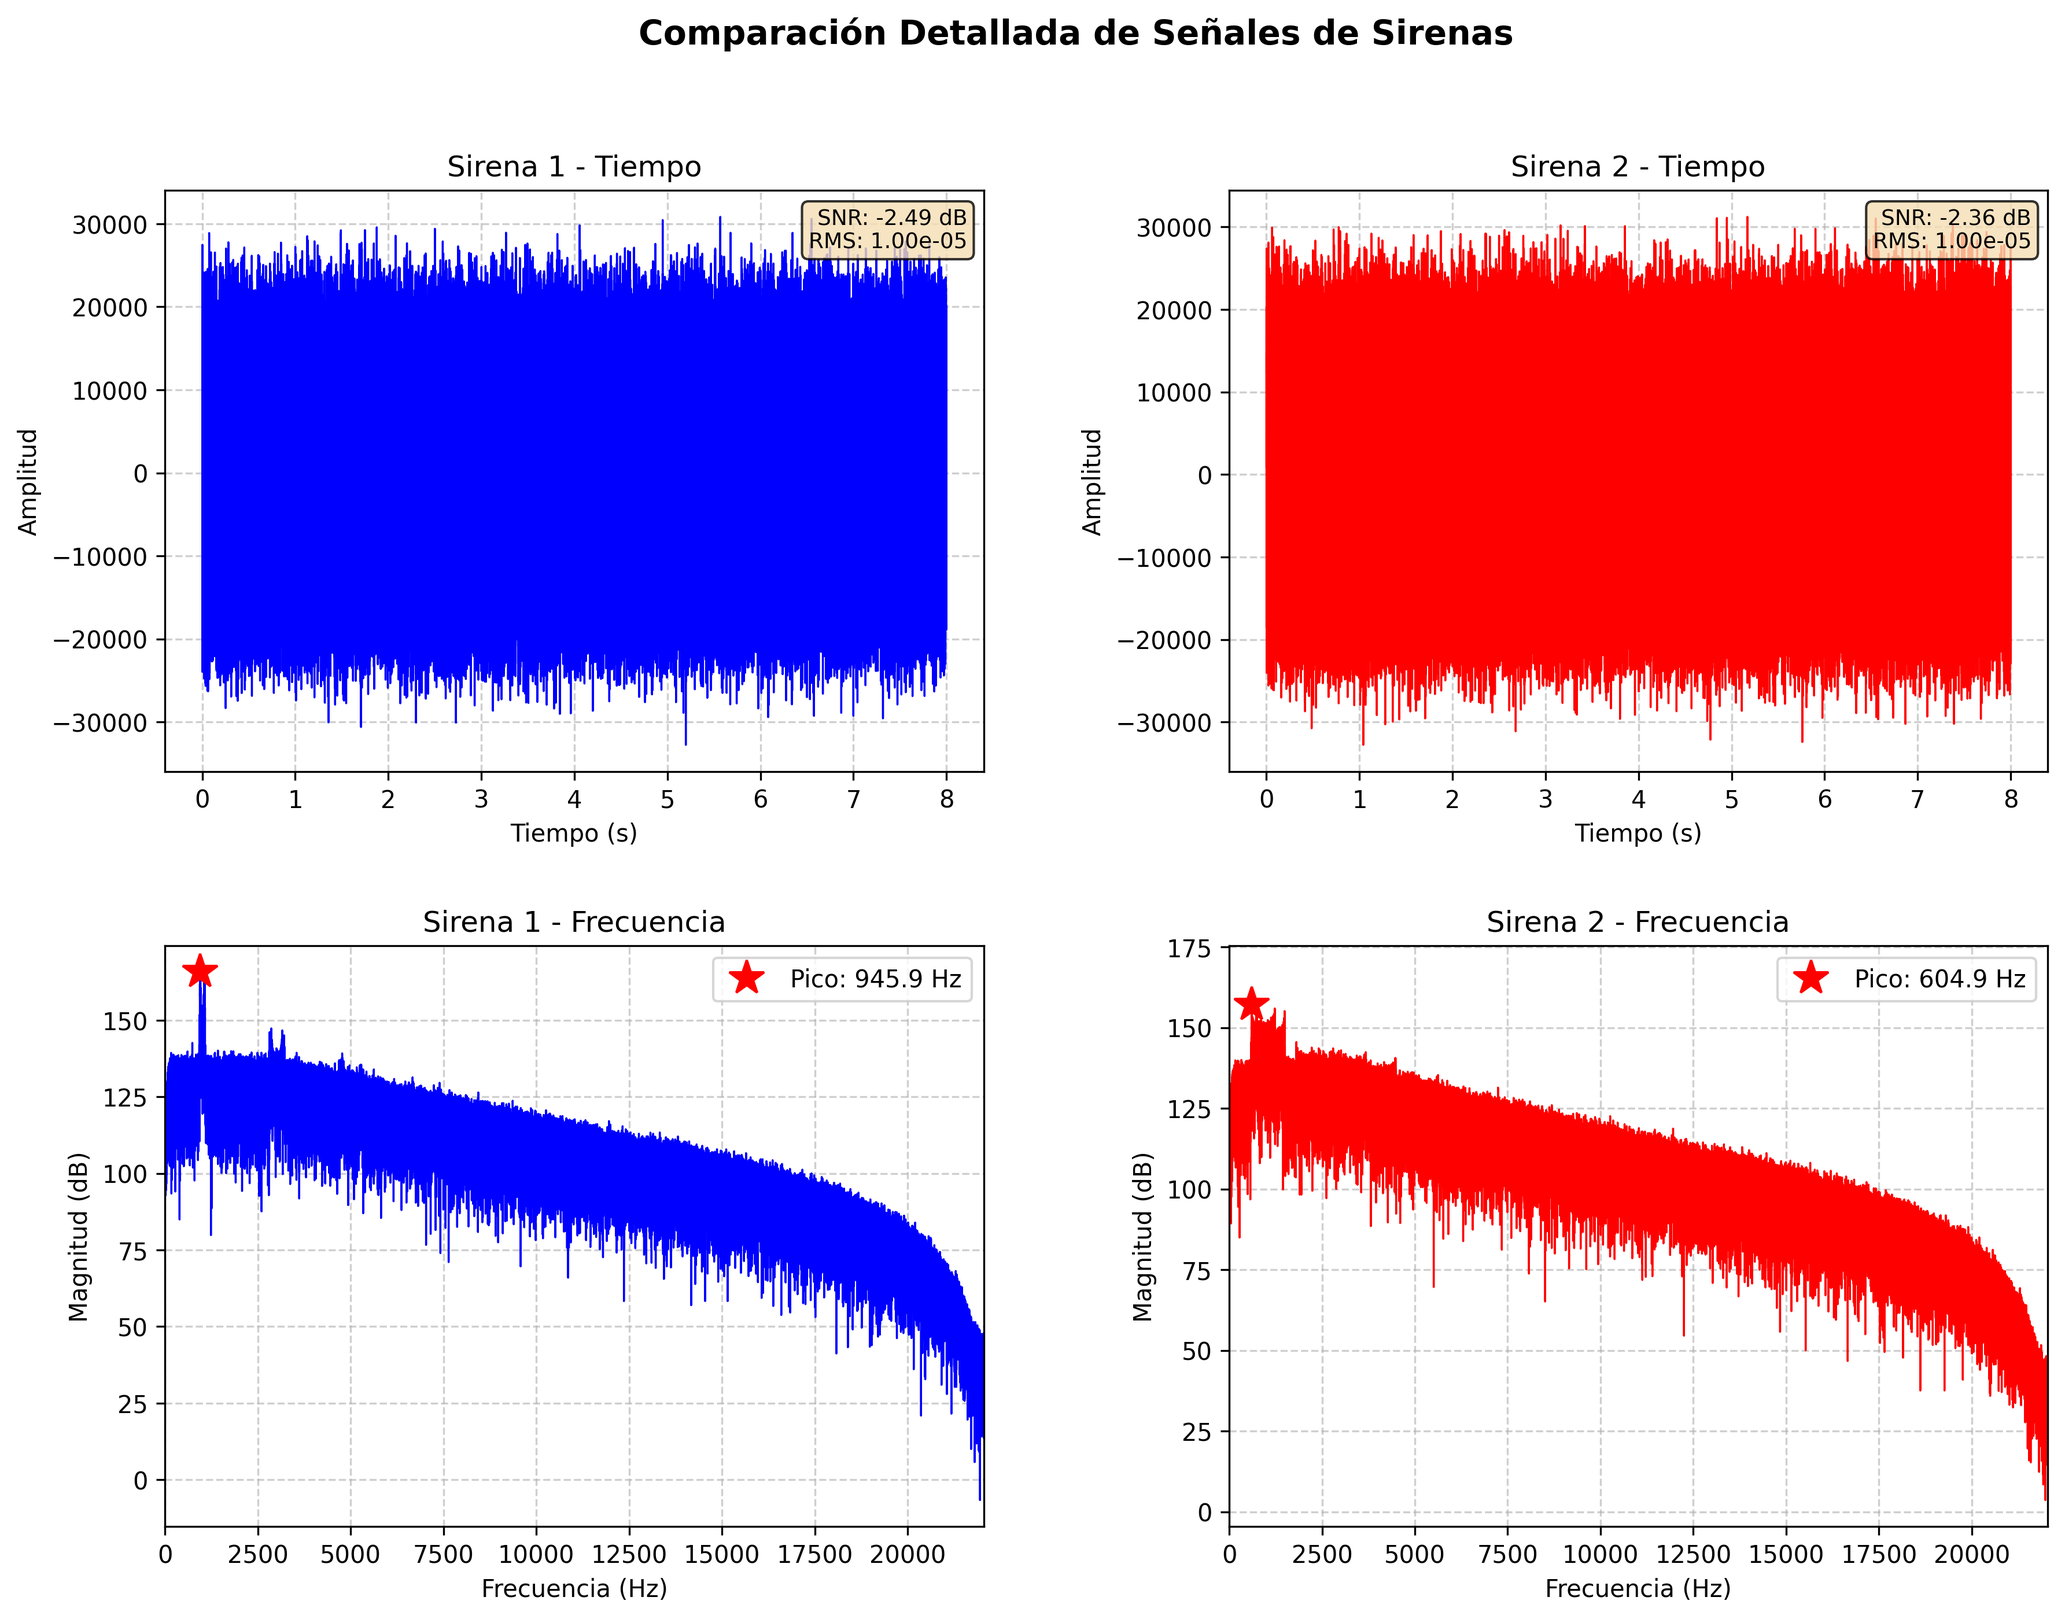
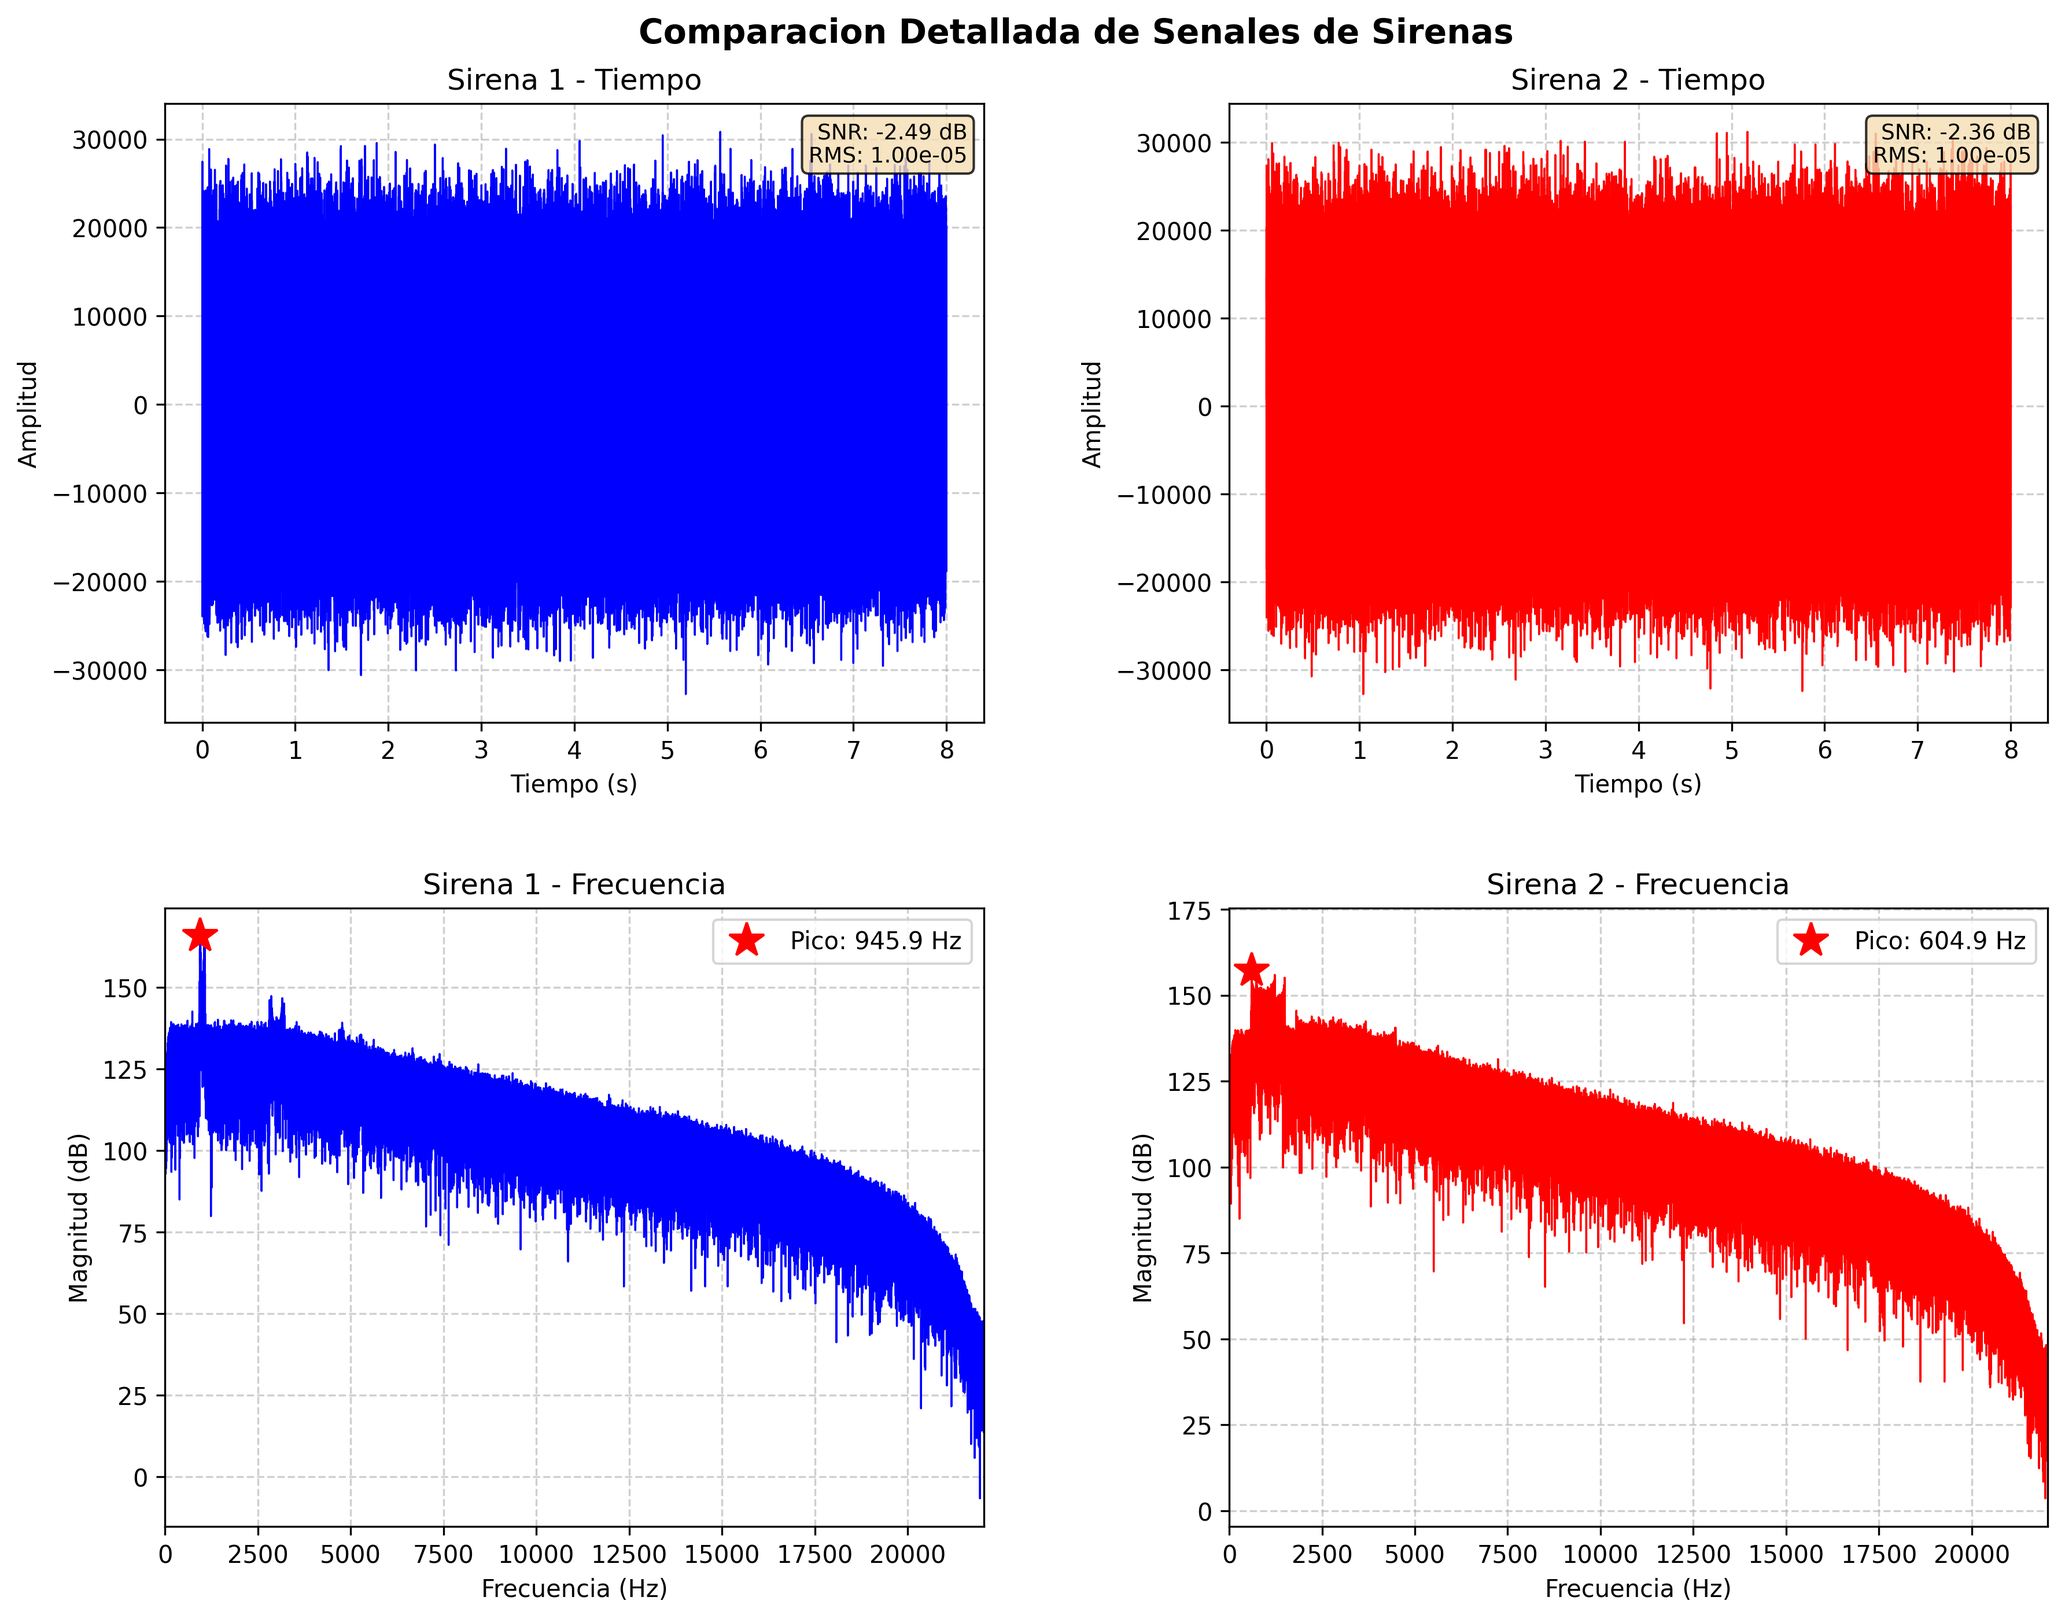
Rename SNR module and normalize text
Rename src/analisis_snr_v2.py to src/analisis_snr.py and update main.py import. Normalize Spanish wording (remove accents and standardize comments/prints) across main.py, src/analisis_snr.py, src/cargar_sirenas.py and src/graficador.py. Adjust graficador behavior: change default titles, use subplots_adjust instead of tight_layout, tweak metric text formatting and save log messages. Suppress a verbose load print in cargar_sirenas. Updated binary outputs: Entregable.docx and graficos-creados/Comparacion_Sirena1_vs_Sirena2.png.

diff --git a/main.py b/main.py
@@ -1,10 +1,10 @@
 from src.cargar_sirenas import cargar_sirenas
 from src.graficador import graficar_comparacion_seniales
-from src.analisis_snr_v2 import imprimir_analisis_completo
+from src.analisis_snr import imprimir_analisis_completo
 import os
 
 def main():
-    # Crear la carpeta de gráficos si no existe
+    # Crear la carpeta de graficos si no existe
     carpeta_graficos = os.path.join(os.path.dirname(__file__), "graficos-creados")
     if not os.path.exists(carpeta_graficos):
         os.makedirs(carpeta_graficos)
@@ -21,30 +21,30 @@ def main():
     fs1, data1 = sirenas['sirena1']['fs'], sirenas['sirena1']['data']
     fs2, data2 = sirenas['sirena2']['fs'], sirenas['sirena2']['data']
 
-    # Mostrar información básica
-    print("\n--- Información de las señales ---")
-    print(f"Sirena 1: fs = {fs1} Hz, duración = {len(data1)/fs1:.2f} s")
-    print(f"Sirena 2: fs = {fs2} Hz, duración = {len(data2)/fs2:.2f} s")
+    # Mostrar informacion basica
+    print("\n--- Informacion de las senales ---")
+    print(f"Sirena 1: fs = {fs1} Hz, duracion = {len(data1)/fs1:.2f} s")
+    print(f"Sirena 2: fs = {fs2} Hz, duracion = {len(data2)/fs2:.2f} s")
 
     # ============================================================
-    # ANÁLISIS SNR
+    # ANALISIS SNR
     # ============================================================
     print("\n" + "="*70)
-    print("ANÁLISIS DE RELACIÓN SEÑAL-RUIDO (SNR)")
+    print("ANALISIS DE RELACION SENAL-RUIDO (SNR)")
     print("="*70)
     
-    # Análisis detallado de cada señal
+    # Analisis detallado de cada senal
     resultado_1 = imprimir_analisis_completo("Sirena 1", data1, fs1)
     resultado_2 = imprimir_analisis_completo("Sirena 2", data2, fs2)
     
-    # Comparación SNR
+    # Comparacion SNR
     print("\n" + "="*70)
-    print("COMPARACIÓN Y CONCLUSIONES")
+    print("COMPARACION Y CONCLUSIONES")
     print("="*70)
     snr1 = resultado_1['snr_db']
     snr2 = resultado_2['snr_db']
     
-    print(f"\nComparación SNR:")
+    print(f"\nComparacion SNR:")
     print(f"  Sirena 1: {snr1:.2f} dB")
     print(f"  Sirena 2: {snr2:.2f} dB")
     print(f"  Diferencia: {abs(snr1 - snr2):.2f} dB")
@@ -57,33 +57,33 @@ def main():
         valor_mejor = snr2
     
     print(f"\n  --> {mejor} tiene mejor SNR ({valor_mejor:.2f} dB)")
-    print(f"      Una mayor SNR significa una señal más clara con menos ruido.")
+    print(f"      Una mayor SNR significa una senal mas clara con menos ruido.")
     
-    # Recomendación de filtro
-    print(f"\nAnálisis de Frecuencias Dominantes:")
+    # Recomendacion de filtro
+    print(f"\nAnalisis de Frecuencias Dominantes:")
     freq_pico1 = resultado_1['freq_pico']
     freq_pico2 = resultado_2['freq_pico']
     print(f"  Sirena 1: Pico en {freq_pico1:.1f} Hz")
     print(f"  Sirena 2: Pico en {freq_pico2:.1f} Hz")
     
-    # Análisis de si se necesita filtro
+    # Analisis de si se necesita filtro
     snr_threshold = 15  # dB
-    print(f"\nRecomendación de Filtrado:")
+    print(f"\nRecomendacion de Filtrado:")
     if snr1 < snr_threshold or snr2 < snr_threshold:
         print(f"  [!] SNR < {snr_threshold} dB -> FILTRADO RECOMENDADO")
         print(f"      - Tipo sugerido: Filtro paso-banda alrededor de la frecuencia dominante")
         print(f"      - Alternativa: Filtro paso-bajo para eliminar ruido de alta frecuencia")
     else:
-        print(f"  [OK] SNR > {snr_threshold} dB -> Señal relativamente limpia")
-        print(f"       Filtrado es OPCIONAL; puede proceder directamente a análisis de frecuencia")
+        print(f"  [OK] SNR > {snr_threshold} dB -> Senal relativamente limpia")
+        print(f"       Filtrado es OPCIONAL; puede proceder directamente a analisis de frecuencia")
     
     print("\n" + "="*70 + "\n")
     
     # ============================================================
-    # GRÁFICOS - COMPARACIÓN DE PRUEBAS
+    # GRAFICOS - COMPARACION DE PRUEBAS
     # ============================================================
     
-    # Definir ruta de salida para el gráfico de comparación
+    # Definir ruta de salida para el grafico de comparacion
     archivo_comparacion = os.path.join(carpeta_graficos, "Comparacion_Sirena1_vs_Sirena2.png")
     
     graficar_comparacion_seniales(fs1, data1, fs2, data2,
@@ -93,7 +93,7 @@ def main():
                                   metricas2=resultado_2,
                                   archivo_salida=archivo_comparacion)
     
-    print(f"\n✓ Los gráficos han sido guardados en la carpeta '{carpeta_graficos}'")
+    print(f"\n[OK] Los graficos han sido guardados en la carpeta '{carpeta_graficos}'")
     print(f"  - {archivo_comparacion}")
 
 

diff --git a/src/graficador.py b/src/graficador.py
@@ -3,16 +3,16 @@ import numpy as np
 from scipy import signal
 import os
 
-def graficar_tiempo_frecuencia(fs, data, titulo="Análisis Tiempo-Frecuencia", color='b', metricas=None, archivo_salida=None):
+def graficar_tiempo_frecuencia(fs, data, titulo="Analisis Tiempo-Frecuencia", color='b', metricas=None, archivo_salida=None):
     """
-    Grafica una señal en tiempo y frecuencia con métricas de calidad.
+    Grafica una senal en tiempo y frecuencia con metricas de calidad.
     
-    Parámetros:
+    Parametros:
     - fs: frecuencia de muestreo (Hz)
     - data: array con las muestras
-    - titulo: título principal de la gráfica
-    - color: color de la línea
-    - metricas: diccionario con métricas de calidad (opcional)
+    - titulo: titulo principal de la grafica
+    - color: color de la linea
+    - metricas: diccionario con metricas de calidad (opcional)
     """
     # Crear figura con subplots
     fig, (ax1, ax2) = plt.subplots(2, 1, figsize=(12, 8))
@@ -25,12 +25,12 @@ def graficar_tiempo_frecuencia(fs, data, titulo="Análisis Tiempo-Frecuencia", c
     ax1.set_ylabel("Amplitud")
     ax1.grid(True, linestyle='--', alpha=0.6)
     
-    # Agregar métricas al gráfico de tiempo
+    # Agregar metricas al grafico de tiempo
     if metricas:
         rms = metricas.get('rms', 0)
         pico = metricas.get('pico', 0)
         duracion = metricas.get('duracion_s', 0)
-        info_text = f"RMS: {rms:.2e} | Pico: {pico:.2e} | Duración: {duracion:.2f}s"
+        info_text = f"RMS: {rms:.2e} | Pico: {pico:.2e} | Duracion: {duracion:.2f}s"
         ax1.text(0.02, 0.95, info_text, transform=ax1.transAxes, 
                 fontsize=9, verticalalignment='top', bbox=dict(boxstyle='round', facecolor='wheat', alpha=0.8))
     
@@ -66,31 +66,31 @@ def graficar_tiempo_frecuencia(fs, data, titulo="Análisis Tiempo-Frecuencia", c
     ax2.plot(freq_pico, pot_pico, 'r*', markersize=15, label=f"Pico: {freq_pico:.1f} Hz")
     ax2.legend()
     
-    plt.tight_layout()
+    plt.subplots_adjust(hspace=0.3, wspace=0.3)
     
-    # Guardar el gráfico si se especifica un archivo de salida
+    # Guardar el grafico si se especifica un archivo de salida
     if archivo_salida:
         carpeta = os.path.dirname(archivo_salida)
         if carpeta and not os.path.exists(carpeta):
             os.makedirs(carpeta)
         fig.savefig(archivo_salida, dpi=300, bbox_inches='tight')
-        print(f"Gráfico guardado: {archivo_salida}")
+        print(f"Grafico guardado: {archivo_salida}")
         plt.close(fig)  # Cerrar la figura para liberar memoria
 
 
 def graficar_comparacion_seniales(fs1, data1, fs2, data2, titulo1="Sirena 1", titulo2="Sirena 2", metricas1=None, metricas2=None, archivo_salida=None):
     """
-    Grafica dos señales lado a lado para comparación.
+    Grafica dos senales lado a lado para comparacion.
     
-    Parámetros:
+    Parametros:
     - fs1, fs2: frecuencias de muestreo
-    - data1, data2: datos de las señales
-    - titulo1, titulo2: títulos de cada señal
-    - metricas1, metricas2: diccionarios con métricas de calidad
+    - data1, data2: datos de las senales
+    - titulo1, titulo2: titulos de cada senal
+    - metricas1, metricas2: diccionarios con metricas de calidad
     """
     fig = plt.figure(figsize=(14, 10))
     
-    # 4 subplots: tiempo y frecuencia para cada señal
+    # 4 subplots: tiempo y frecuencia para cada senal
     gs = fig.add_gridspec(2, 2, hspace=0.3, wspace=0.3)
     
     colores = ['blue', 'red']
@@ -148,14 +148,14 @@ def graficar_comparacion_seniales(fs1, data1, fs2, data2, titulo1="Sirena 1", ti
             ax_freq.legend()
     
     
-    fig.suptitle("Comparación Detallada de Señales de Sirenas", fontsize=14, fontweight='bold')
-    plt.tight_layout()
+    fig.suptitle("Comparacion Detallada de Senales de Sirenas", fontsize=14, fontweight='bold')
+    plt.subplots_adjust(hspace=0.35, wspace=0.3, top=0.93)
     
-    # Guardar el gráfico si se especifica un archivo de salida
+    # Guardar el grafico si se especifica un archivo de salida
     if archivo_salida:
         carpeta = os.path.dirname(archivo_salida)
         if carpeta and not os.path.exists(carpeta):
             os.makedirs(carpeta)
         fig.savefig(archivo_salida, dpi=300, bbox_inches='tight')
-        print(f"Gráfico guardado: {archivo_salida}")
+        print(f"Grafico guardado: {archivo_salida}")
         plt.close(fig)  # Cerrar la figura para liberar memoria

diff --git a/src/analisis_snr.py b/src/analisis_snr.py
@@ -4,7 +4,7 @@ from scipy import signal
 def calcular_snr_simple(data):
     """
     Calcula SNR de forma simple y robusta.
-    Asume que los segmentos más silenciosos contienen principalmente ruido.
+    Asume que los segmentos mas silenciosos contienen principalmente ruido.
     SNR = 10*log10(P_signal / P_noise)
     """
     # Asegurar que data es float
@@ -41,7 +41,7 @@ def calcular_snr_simple(data):
 
 
 def metricas_basicas(data, fs):
-    """Calcula métricas básicas de la señal"""
+    """Calcula metricas basicas de la senal"""
     # Evitar valores negativos
     valor_cuadrado_medio = np.mean(data ** 2)
     valor_cuadrado_medio = max(valor_cuadrado_medio, 1e-10)
@@ -51,7 +51,7 @@ def metricas_basicas(data, fs):
     minimo = np.min(data)
     maximo = np.max(data)
     
-    # Rango dinámico
+    # Rango dinamico
     if rms > 1e-10:
         rango_dinamico_db = 20 * np.log10(pico / rms)
     else:
@@ -112,9 +112,9 @@ def analizar_espectro(data, fs):
 
 
 def imprimir_analisis_completo(nombre, data, fs):
-    """Imprime análisis completo de una señal"""
+    """Imprime analisis completo de una senal"""
     print(f"\n{'='*60}")
-    print(f"Análisis SNR: {nombre}")
+    print(f"Analisis SNR: {nombre}")
     print(f"{'='*60}")
     
     # SNR
@@ -126,22 +126,22 @@ def imprimir_analisis_completo(nombre, data, fs):
         p_noise = p_signal * 0.01
     
     print(f"SNR: {snr_db:.2f} dB")
-    print(f"  Potencia de señal: {p_signal:.2e}")
+    print(f"  Potencia de senal: {p_signal:.2e}")
     print(f"  Potencia de ruido: {p_noise:.2e}")
     
-    # Métricas básicas
+    # Metricas basicas
     metricas = metricas_basicas(data, fs)
-    print(f"\nMétricas de Calidad:")
+    print(f"\nMetricas de Calidad:")
     print(f"  RMS: {metricas['rms']:.2e}")
     print(f"  Pico: {metricas['pico']:.2e}")
     print(f"  Factor de cresta: {metricas['factor_cresta']:.2f}")
-    print(f"  Rango dinámico: {metricas['rango_dinamico_db']:.2f} dB")
-    print(f"  Duración: {metricas['duracion_s']:.2f} s")
+    print(f"  Rango dinamico: {metricas['rango_dinamico_db']:.2f} dB")
+    print(f"  Duracion: {metricas['duracion_s']:.2f} s")
     
     # Espectro
     try:
         freqs, mag_db, freq_pico, pot_pico = analizar_espectro(data, fs)
-        print(f"\nAnálisis Espectral:")
+        print(f"\nAnalisis Espectral:")
         print(f"  Frecuencia de pico: {freq_pico:.1f} Hz")
         print(f"  Potencia en pico: {pot_pico:.1f} dB")
     except:
@@ -149,7 +149,7 @@ def imprimir_analisis_completo(nombre, data, fs):
         pot_pico = 0
         freqs = np.array([])
         mag_db = np.array([])
-        print(f"\nAnálisis Espectral: Error en cálculo")
+        print(f"\nAnalisis Espectral: Error en calculo")
     
     print(f"{'='*60}\n")
     

diff --git a/src/cargar_sirenas.py b/src/cargar_sirenas.py
@@ -5,31 +5,31 @@ from scipy.io import wavfile
 def cargar_audio(ruta_archivo):
     """
     Carga un archivo WAV y devuelve la frecuencia de muestreo y los datos.
-    Si el archivo tiene múltiples canales, devuelve el primer canal (mono).
+    Si el archivo tiene multiples canales, devuelve el primer canal (mono).
     """
     if not os.path.exists(ruta_archivo):
         raise FileNotFoundError(f"El archivo {ruta_archivo} no existe.")
     fs, data = wavfile.read(ruta_archivo) #fs es la frecuencia de muestreo, data es un array con los datos de audio
 
-    if data.ndim > 1:       # Si el audio tiene múltiples canales, solo toma el primero (mono)
+    if data.ndim > 1:       # Si el audio tiene multiples canales, solo toma el primero (mono)
         data = data[:, 0]
     return fs, data         # Retorna la frecuencia y los datos
 
 def cargar_sirenas(carpeta='data'):
     """
     Carga los archivos sirena_1.wav y sirena_2.wav desde la carpeta especificada.
-    Devuelve un diccionario con la información.
+    Devuelve un diccionario con la informacion.
     """
     rutas = {           #diccionario con las rutas de los archivos
         'sirena1': os.path.join(carpeta, 'sirena_1.wav'),
         'sirena2': os.path.join(carpeta, 'sirena_2.wav')
     }
-    resultados = {}     #diccionario vacío para almacenar los resultados
+    resultados = {}     #diccionario vacio para almacenar los resultados
     for nombre, ruta in rutas.items():
         try:
             fs, data = cargar_audio(ruta)
             resultados[nombre] = {'fs': fs, 'data': data, 'ruta': ruta}
-            print(f"Archivo {nombre} cargado: fs={fs} Hz, duración={len(data)/fs:.2f} s, muestras={len(data)}")
+            #print(f"Archivo {nombre} cargado: fs={fs} Hz, duracion={len(data)/fs:.2f} s, muestras={len(data)}")
         except Exception as e:
             print(f"Error al cargar {nombre}: {e}")
             resultados[nombre] = None
